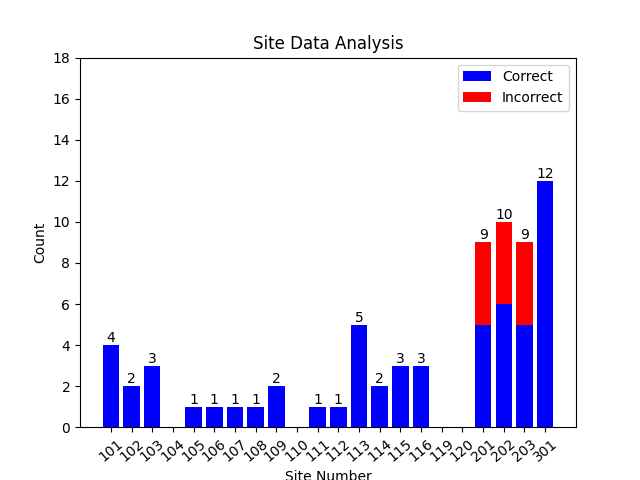
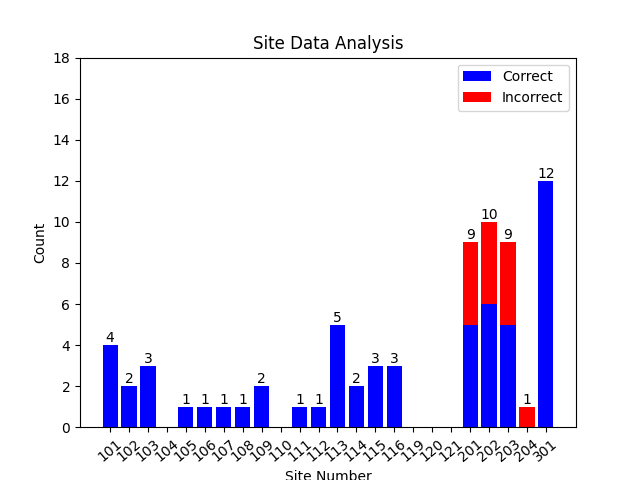
Choice elimination function added

Changed region(s): [[0.1562, 0.4375, 0.8438, 0.9688], [0.8438, 0.3438, 0.875, 0.375], [0.1562, 0.6875, 0.1875, 0.7188]]

diff --git a/templates/dev_site_modify.html b/templates/dev_site_modify.html
@@ -15,9 +15,9 @@
 
     <table>
         <tbody>
+        <caption style="margin:10px">Current Site Data: {{ site_number }}</caption><br>
           <tr>
             <th>Site Type</th>
-            <th>Site Number</th>
             <th>Points</th>
             <th>Title</th>
             <th>HP</th>
@@ -25,7 +25,6 @@
           </tr>
             <tr onclick="redirectToSiteModify('{{ current_site_data[2] }}')">
                 <td>{{ current_site_data["site_type"] }}</td>
-                <td>{{ current_site_data["site_number"] }}</td>
                 <td>{{ current_site_data["points"] }}</td>
                 <td>{{ current_site_data["title"] }}</td>
                 <td>{{ current_site_data["hp"] }}</td>
@@ -34,7 +33,7 @@
         </tbody>
     </table>
 
-    {% if current_choices_data %}
+    {% if current_site_data["site_type"] == 2 %}
         <table>
             <tbody>
             <caption style="margin:10px">Current Choices Data: {{ site_number }}</caption><br>
@@ -52,8 +51,9 @@
         </table>
     {% endif %}
 
-
-    <form name="column_form" method="POST" action="/dev_site_modify">
+    <b>Modify Base Site Data</b>
+    <form name="column_form" method="POST" action="/dev_site_modify?site={{ current_site_data["site_number"] }}">
+        <input type="hidden" name="form_type" value="columns">
         {% if current_site_data["site_type"] == 1 %}
             <fieldset>
                 <legend>Columns</legend>
@@ -89,5 +89,43 @@
         <br>
         <button type="submit">Submit</button>
     </form>
+
+    {% if current_site_data["site_type"] == 2 %}
+        <b>Modify Choices Data</b>
+        <form name="create_choices" method="POST" action="/dev_site_modify?site={{ current_site_data["site_number"] }}">
+            <input type="hidden" name="form_type" value="choices">
+            <fieldset>
+                <legend>Choices</legend>
+                <!-- Create CHOICE in a form of 100 characters or less. -->
+                <input type="radio" name="choice_value" value="0" id="choice_value_1" checked>
+                <label for="choice_value_1" class="choice">0: Correct</label>
+                <input type="radio" name="choice_value" value="X" id="choice_value_2">
+                <label for="choice_value_2" class="choice">X: Incorrect</label>
+            </fieldset>
+            <br>
+            <!-- Create CHOICE in a form of 100 characters or less. -->
+            <label for="choice_text" class="choice">Choice Text:</label>
+            <input type="text" id="choice_text" name="choice_text" class="text" maxlength="256">
+            <br>
+            <button type="submit">Add Choices</button>
+            <input type="hidden" name="progress" value="step2">
+            <input type="hidden" name="new_site_number" value="{{ new_site_number }}">
+        </form>    
+        <b>Delete Choice</b>
+        <form name="delete_choices" method="POST" action="/dev_site_modify?site={{ current_site_data["site_number"] }}">
+            <input type="hidden" name="form_type" value="delete">
+            <fieldset>
+                <legend>Choices</legend>
+                <!-- Create CHOICE in a form of 100 characters or less. -->
+                {% for loop_count in range(current_choices_data|length) %}
+                    <input type="radio" name="choice_count" value="{{ loop_count }}" id="choice_{{ loop_count }}">
+                    <label for="choice_{{ loop_count }}" class="choice">{{ current_choices_data[loop_count]["value"] }}: {{ current_choices_data[loop_count]["choice"] }}</label>
+                {% endfor %}
+            </fieldset>
+            <br>
+            <button type="submit">Delete Choices</button>
+        </form>
+    {% endif %}
+    <a href="{{ url_for('dev_create_site') }}"><button class="back">Back</button></a>
 </body>
 </html>

diff --git a/templates/dev_create_site.html b/templates/dev_create_site.html
@@ -212,7 +212,7 @@
           </tbody>
         </table>
     {% elif progress == "step2" %}
-      <form name="create_choices" method="POST" action="/create_site">
+      <form name="create_choices" method="POST" action="/dev_create_site">
         <fieldset>
             <legend>Choices</legend>
             <!-- Create CHOICE in a form of 100 characters or less. -->
@@ -229,7 +229,7 @@
         <input type="hidden" name="progress" value="step2">
         <input type="hidden" name="new_site_number" value="{{ new_site_number }}">
       </form>    
-      <form name="completed_create_choices" method="POST" action="/create_site">
+      <form name="completed_create_choices" method="POST" action="/dev_create_site">
         <button type="submit">Choice Creation Completed</button>
         <input type="hidden" name="progress" value="completed">
         <input type="hidden" name="new_site_number" value="{{ new_site_number }}">

diff --git a/static/css/style.css b/static/css/style.css
@@ -183,6 +183,7 @@ table {
   text-align: center;
   margin-left: auto;
   margin-right: auto;
+  margin-bottom: 10px;
 }
 
 #table {

diff --git a/app.py b/app.py
@@ -247,31 +247,24 @@ def insert_site_data():
     cnx = mysql.connector.connect(user=dbconfig.user1, password=dbconfig.user_pass, host=dbconfig.sql_host, database=dbconfig.db_name)
     cursor = cnx.cursor()
 
-    # Refer to the site_number column from the logs table and count how many have the same value
-    query = "SELECT site_number, COUNT(*) FROM logs GROUP BY site_number"
+    # Count occurrences of each site_number and non-zero points using a single query
+    query = """
+        SELECT site_number, COUNT(*) AS total_count, SUM(CASE WHEN points != 0 THEN 1 ELSE 0 END) AS correct_count
+        FROM logs GROUP BY site_number
+    """
     cursor.execute(query)
     site_data = cursor.fetchall()
-    
-    # Count the non-zeor number in the points column of the logs table by site_number column
-    query = "SELECT site_number, COUNT(*) FROM logs WHERE points != 0 GROUP BY site_number"
-    cursor.execute(query)
-    site_data_2 = cursor.fetchall()
 
-    # Assign the above site_data to the get_count column of the site_data table
+    # Update site_data table
+    update_query = "UPDATE site_data SET get_count = %s, correct_count = %s WHERE site_number = %s"
     for site in site_data:
-        update_query = "UPDATE site_data SET get_count = %s WHERE site_number = %s"
-        values = (site[1], site[0])
-        cursor.execute(update_query, values)
-    
-    # Difference of counts from site_data, site_data_2 by site_number
-    for site in site_data_2:
-        update_query = "UPDATE site_data SET correct_count = %s WHERE site_number = %s"
-        values = (site[1], site[0])
+        values = (site[1], site[2], site[0])
         cursor.execute(update_query, values)
     
     cnx.commit()
     cursor.close()
     cnx.close()
+
 
 def dev_create_site_data(site_type, points, title):
     cnx = mysql.connector.connect(user=dbconfig.user3, password=dbconfig.user_pass, host=dbconfig.sql_host, database=dbconfig.db_name)
@@ -320,6 +313,28 @@ def change_site_data(site_number, column, new_data):
         # Make the data in the column of site_number=site_number in the site_data table new_data
         change_query = "UPDATE site_data SET {} = %s WHERE site_number = %s".format(column)
         cursor.execute(change_query, (new_data, site_number, ))
+
+    cnx.commit()
+    cursor.close()
+    cnx.close()
+
+def delete_choices_data(site_number, choice_count):
+    cnx = mysql.connector.connect(user=dbconfig.user1, password=dbconfig.user_pass, host=dbconfig.sql_host, database=dbconfig.db_name)  
+    cursor = cnx.cursor()
+    choice_count = int(choice_count)
+    # Take data from site_data in the CHOICES column of site_number=site_number
+    query = "SELECT choices FROM site_data WHERE site_number = %s"
+    cursor.execute(query, (site_number, ))
+    choices = cursor.fetchone()[0]
+    # Convert the existing JSON value to a Python list
+    choices = json.loads(choices)
+    # Delete the selected choice from the list
+    del choices[choice_count]
+    # Convert the list to JSON
+    choices = json.dumps(choices)
+    # Make the data in the column of site_number=site_number in the site_data table choices
+    change_query = "UPDATE site_data SET choices = %s WHERE site_number = %s"
+    cursor.execute(change_query, (choices, site_number, ))
 
     cnx.commit()
     cursor.close()
@@ -443,7 +458,7 @@ def analyze_and_generate_graphs(user_count):
     pie_images = []
     for site_number, correct_count, incorrect_count in zip(site_numbers, correct_counts, incorrect_counts):
         if correct_count == 0 and incorrect_count == 0:
-            continue
+            pass
         else:
             # Conditional branching when the first character of site_number is 2
             if site_number[0] == '2':
@@ -725,7 +740,7 @@ def dev_ranking():
 @app.route("/show_user", methods=['GET', 'POST'])
 def show_user():
     user_data = show_user_data()
-    return render_template('.html', user_data=user_data)
+    return render_template('show_user.html', user_data=user_data)
 
 @app.route('/data_modify', methods=['GET', 'POST'])
 def data_modify():
@@ -751,14 +766,15 @@ def dev_create_site():
             site_type = request.form['site_type']
             title = request.form['title']
             points = request.form['points']
-            new_site_number = dev_create_site_data(site_type, points, title)
+            # new_site_number = dev_create_site_data(site_type, points, title)
+            new_site_number = "204"
             if site_type == "2":
                 question = request.form['question']
                 change_site_data(new_site_number, column="question", new_data=question)
                 progress = "step2"
             elif site_type == "3":
                 hp = request.form['hp']
-                change_site_data(new_site_number, column="hp", new_data=hp)
+                # change_site_data(new_site_number, column="hp", new_data=hp)
                 progress = "completed"
             else: 
                 progress = "completed"
@@ -797,12 +813,43 @@ def dev_create_site():
 def dev_site_modify():
     site_number = request.args.get('site')
     current_site_data = get_site_data(site_number)
-    if site_number[0] == "2":
-        choices_json = current_site_data["choices"]
-        current_choices_data = json.loads(choices_json)
-        return render_template("dev_site_modify.html", site_number=site_number, current_site_data=current_site_data, current_choices_data=current_choices_data)
+    choices_json = current_site_data["choices"]
+    current_choices_data = json.loads(choices_json)
+    if request.method == 'POST':
+        form_type = request.form['form_type']
+        if form_type == "columns":
+            column = request.form.get('columns')
+            new_data = request.form.get('text_input')
+            change_site_data(site_number, column=column, new_data=new_data)
+            current_site_data = get_site_data(site_number)
+            choices_json = current_site_data["choices"]
+            current_choices_data = json.loads(choices_json)
+            return render_template("dev_site_modify.html", site_number=site_number, current_site_data=current_site_data, current_choices_data=current_choices_data)
+        elif form_type == "choices":
+            choice_value = request.form.getlist('choice_value')
+            choice_text = request.form.getlist('choice_text')
+            # Make a dictionary of choice_value and choice_text and a list of them as choices_data.
+                
+            combined_dict = {'value': choice_value[0], 'choice': choice_text[0]}
+            change_site_data(site_number, column="choices", new_data=combined_dict)
 
-    return render_template("dev_site_modify.html", site_number=site_number, current_site_data=current_site_data)
+            current_site_data = get_site_data(site_number)
+            choices_json = current_site_data["choices"]
+            current_choices_data = json.loads(choices_json)
+            return render_template("dev_site_modify.html", site_number=site_number, current_site_data=current_site_data, current_choices_data=current_choices_data)
+        elif form_type == "delete":
+            choice_count = request.form.get('choice_count')
+            delete_choices_data(site_number, choice_count)
+            
+            # Update current_choices_data after deleting the choice
+            current_site_data = get_site_data(site_number)
+            choices_json = current_site_data["choices"]
+            current_choices_data = json.loads(choices_json)
+
+            return render_template("dev_site_modify.html", site_number=site_number, current_site_data=current_site_data, current_choices_data=current_choices_data)
+
+   
+    return render_template("dev_site_modify.html", site_number=site_number, current_site_data=current_site_data, current_choices_data=current_choices_data)
 
 if __name__ == '__main__':
     app.run(debug=True)
